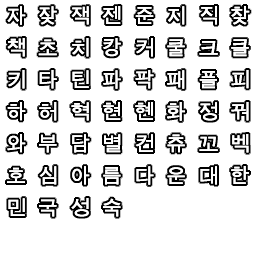
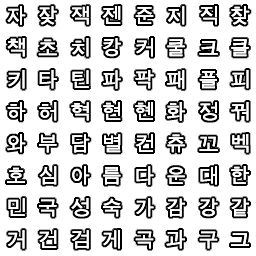
update
git-svn-id: https://svn.stepmania.com/svn/trunk/stepmania@5204 822b03c2-8f45-0410-a444-95660a741a6f

Changed region(s): [[0.0, 0.75, 1.0, 1.0]]

diff --git a/Utils/Font generation/Text.js b/Utils/Font generation/Text.js
@@ -31,7 +31,7 @@ var OutputDir = "c:/temp/stepmania/utils/Font generation/Output/";
  * a single text layer with the characters we want.  The orientation, font, etc.
  * don't matter; they'll be overridden. */
 var JAFontPages = Array("main", "kanji 1", "kanji 2","kanji 3");
-var KRFontPages = Array("jamo 1", "jamo 2");
+var KRFontPages = Array("jamo 1", "jamo 2", "jamo 3", "jamo 4");
 
 var Fonts = new Array(
 	/* name                       font         pages        frame sz  font sz  AA                border   bold */
